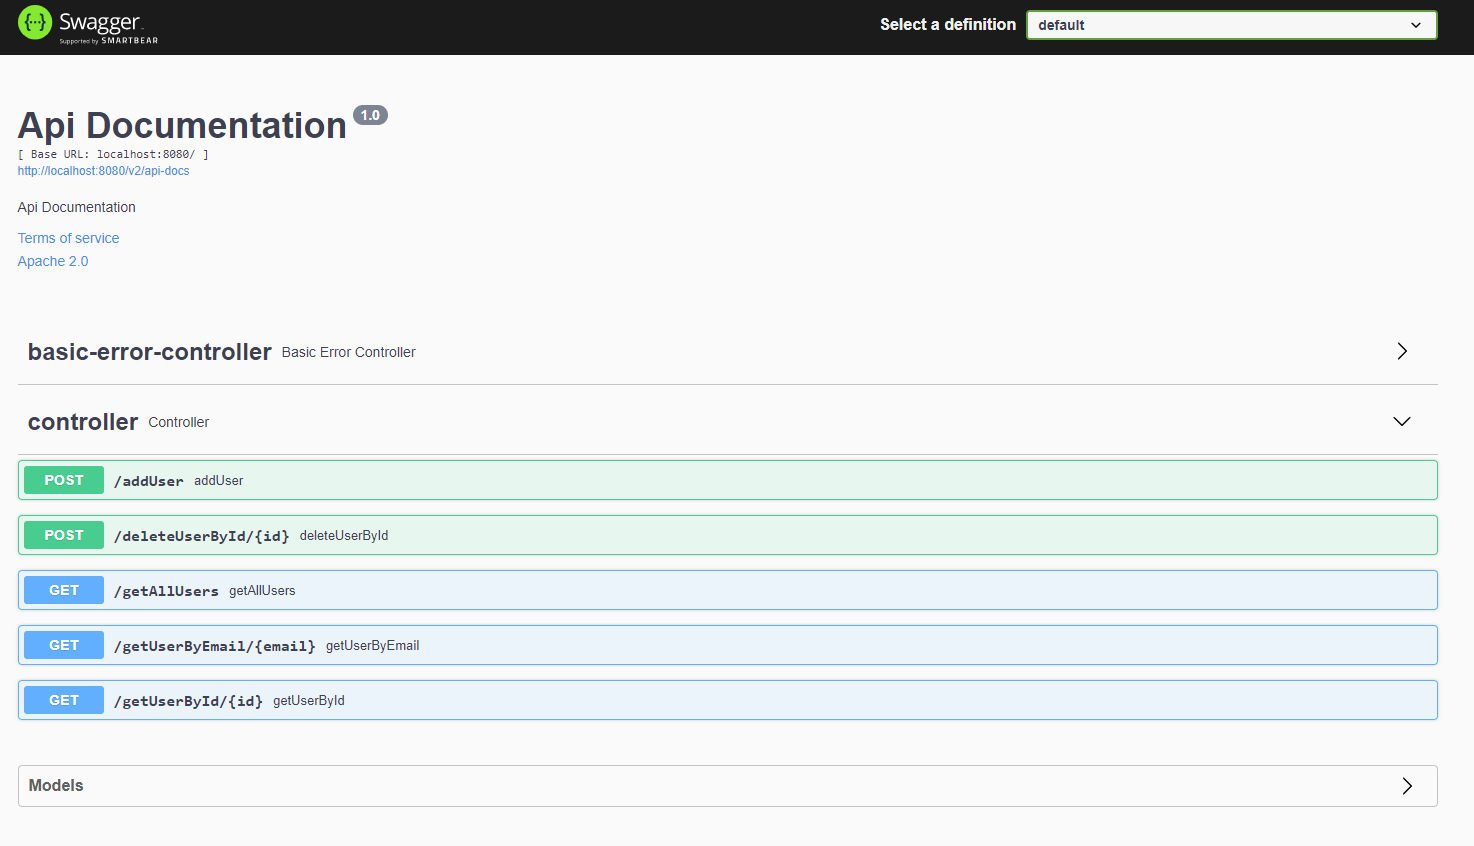
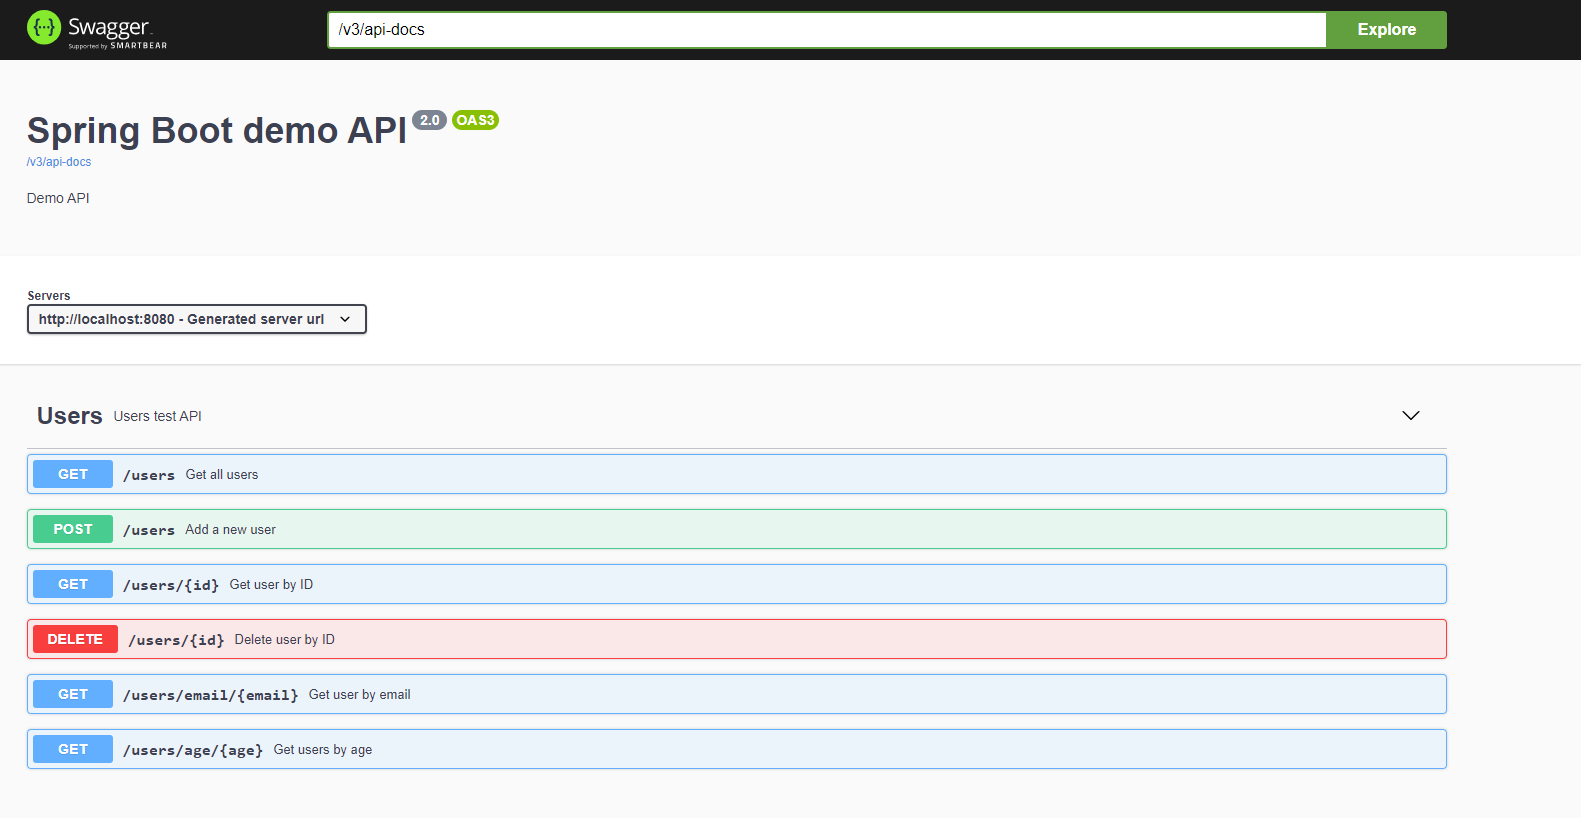
Removed local mysql database Added Hibernate in memory DB Logic changes

diff --git a/src/main/java/com/example/springtest/Controller/Controller.java b/src/main/java/com/example/springtest/Controller/Controller.java
@@ -2,64 +2,74 @@ package com.example.springtest.Controller;
 
 import com.example.springtest.Model.User;
 import com.example.springtest.Services.UserService;
+import io.swagger.v3.oas.annotations.Operation;
+import io.swagger.v3.oas.annotations.tags.Tag;
 import org.springframework.beans.factory.annotation.Autowired;
 import org.springframework.http.HttpStatus;
 import org.springframework.http.ResponseEntity;
 import org.springframework.web.bind.annotation.*;
 
+import javax.validation.Valid;
+import java.util.List;
 import java.util.Optional;
 
+@Tag(name = "Users", description = "Users test API")
 @RestController
 public class Controller {
 
     @Autowired
     UserService userService;
 
-    @GetMapping("/getUserById/{id}")
+    @GetMapping("/users/{id}")
+    @Operation(summary = "Get user by ID")
     public ResponseEntity getUserById(@PathVariable(value = "id") int id) throws Exception {
         System.out.println("Getting user by ID: " + id);
         Optional<User> user = userService.getUserById(id);
-        if(!user.isEmpty()) {
-            return new ResponseEntity<>(user, HttpStatus.OK);
-        }
-        return new ResponseEntity<>(null, HttpStatus.NOT_FOUND);
+        return new ResponseEntity<>(user, HttpStatus.OK);
     }
 
-    @GetMapping("/getUserByEmail/{email:.*}")
+    @GetMapping("/users/age/{age}")
+    @Operation(summary = "Get users by age")
+    public ResponseEntity getUsersByAge(@PathVariable(value = "age") int age) throws Exception {
+        System.out.println("Getting user by ID: " + age);
+        List<User> user = userService.getUsersByAge(age);
+        return new ResponseEntity<>(user, HttpStatus.OK);
+    }
+
+    @GetMapping("/users/email/{email:.*}")
+    @Operation(summary = "Get user by email")
     public ResponseEntity getUserByEmail(@PathVariable(value = "email") String email) throws Exception {
         System.out.println("Getting user by Email: " + email);
         Optional<User> user = userService.getUserByEmail(email);
-        if(!user.isEmpty()) {
-            return new ResponseEntity<>(user, HttpStatus.OK);
-        }
-        return new ResponseEntity<>(null, HttpStatus.NOT_FOUND);
+        return new ResponseEntity<>(user, HttpStatus.OK);
     }
 
-    @GetMapping("/getAllUsers")
+    @DeleteMapping("/users/{id}")
+    @Operation(summary = "Delete user by ID")
+    public ResponseEntity deleteUserById(@PathVariable(value = "id") int id)  throws Exception {
+        System.out.println("Deleting user with ID: " + id);
+        if(userService.deleteUserById(id)) {
+            return new ResponseEntity<>("Success", HttpStatus.OK);
+        }  else {
+            return new ResponseEntity<>("Error", HttpStatus.BAD_REQUEST);
+        }
+    }
+
+    @GetMapping("/users")
+    @Operation(summary = "Get all users")
     public ResponseEntity getAllUsers()  throws Exception {
         System.out.println("Finding all users");
         return new ResponseEntity<>(userService.getAllUsers(), HttpStatus.OK);
     }
 
-    @PostMapping("/deleteUserById/{id}")
-    public ResponseEntity deleteUserById(@PathVariable(value = "id") int id)  throws Exception {
-        System.out.println("Deleting user with ID: " + id);
-        HttpStatus response = userService.deleteUserById(id);
-        String responseBody = "";
-        if(response.equals(HttpStatus.OK)) {
-            responseBody = "Success";
-        } else responseBody = "Failure";
-        return new ResponseEntity<>(responseBody, response);
-    }
-
-    @PostMapping("/addUser")
-    public ResponseEntity addUser(@RequestBody String body) throws Exception {
-        System.out.println("Adding user: " + body);
-        HttpStatus response = userService.addUser(body);
-        String responseBody = "";
-        if(response.equals(HttpStatus.OK)) {
-            responseBody = "Success";
-        } else responseBody = "Failure";
-        return new ResponseEntity<>(responseBody, response);
+    @PostMapping("/users")
+    @Operation(summary = "Add a new user")
+    public ResponseEntity addUser(@RequestBody @Valid String request) throws Exception {
+        System.out.println("Request: " + request);
+        if(userService.addUser(request)) {
+            return new ResponseEntity<>("Success", HttpStatus.OK);
+        } else {
+            return new ResponseEntity<>("Error", HttpStatus.BAD_REQUEST);
+        }
     }
 }

diff --git a/src/main/java/com/example/springtest/Services/UserService.java b/src/main/java/com/example/springtest/Services/UserService.java
@@ -1,11 +1,9 @@
 package com.example.springtest.Services;
 
 import com.example.springtest.Database.UserRepository;
-import com.example.springtest.Model.NewUser;
 import com.example.springtest.Model.User;
 import com.fasterxml.jackson.databind.ObjectMapper;
 import org.springframework.beans.factory.annotation.Autowired;
-import org.springframework.http.HttpStatus;
 import org.springframework.stereotype.Service;
 
 import java.util.List;
@@ -14,39 +12,50 @@ import java.util.Optional;
 @Service
 public class UserService {
 
-    @Autowired
-    UserRepository userRepository;
+    private UserRepository userRepository;
 
-    public Optional<User>  getUserById(int id) {
-        return userRepository.findById(id);
+    @Autowired
+    public UserService(UserRepository userRepository) {
+        this.userRepository = userRepository;
+    }
+
+    public Optional<User> getUserById(int id) {
+        return userRepository.findById(Integer.valueOf(id));
     }
 
     public Optional<User> getUserByEmail(String email) {
         return userRepository.findByEmail(email);
     }
 
-    public List<User> getAllUsers() {
-        return userRepository.findAllUsers();
+    public List<User> getUsersByAge(Integer age) {
+        return userRepository.findByAge(age);
     }
 
-    public HttpStatus deleteUserById(int id)  {
+    public Iterable<User> getAllUsers() {
+        return userRepository.findAll();
+    }
+
+    public boolean deleteUserById(int id) {
         try {
             userRepository.deleteById(id);
-            return HttpStatus.OK;
+            return true;
         } catch (Exception e) {
-            return HttpStatus.NOT_FOUND;
+            System.out.println(e);
+            return false;
         }
     }
 
-    public HttpStatus addUser(String body) {
+    public boolean addUser(String request) {
         try {
             ObjectMapper objectMapper = new ObjectMapper();
-            NewUser newUser = objectMapper.readValue(body, NewUser.class);
-            System.out.println("Inserting user into database: " + newUser.getName());
-            userRepository.addUser(newUser.getName(), newUser.getEmail(), newUser.getPostcode(), newUser.getAge());
-            return HttpStatus.OK;
+            User user = objectMapper.readValue(request, User.class);
+            System.out.println("Inserting user into database: " + user.toString());
+            userRepository.save(new User(user.getAge(), user.getName(), user.getEmail(), user.getPostcode()));
+            return true;
         } catch (Exception e) {
-            return HttpStatus.BAD_REQUEST;
+            System.out.println(e);
+            return false;
         }
+
     }
 }

diff --git a/src/main/java/com/example/springtest/SpringTestApplication.java b/src/main/java/com/example/springtest/SpringTestApplication.java
@@ -1,15 +1,31 @@
 package com.example.springtest;
 
+import com.example.springtest.Database.UserRepository;
+import com.example.springtest.Model.User;
+import io.swagger.v3.oas.annotations.OpenAPIDefinition;
+import io.swagger.v3.oas.annotations.info.Info;
+import org.springframework.beans.factory.annotation.Autowired;
+import org.springframework.boot.CommandLineRunner;
 import org.springframework.boot.SpringApplication;
 import org.springframework.boot.autoconfigure.SpringBootApplication;
-import org.springframework.data.jpa.repository.config.EnableJpaRepositories;
 
-@EnableJpaRepositories("com.example.springtest.Database")
 @SpringBootApplication
-public class SpringTestApplication {
+@OpenAPIDefinition(info = @Info(title = "Spring Boot demo API",
+		description = "Demo API",
+		version = "2.0"))
+public class SpringTestApplication implements CommandLineRunner {
+
+	@Autowired
+	UserRepository userRepository;
 
 	public static void main(String[] args) {
 		SpringApplication.run(SpringTestApplication.class, args);
+	}	//http://localhost:8080/swagger-ui.html
+
+	@Override
+	public void run(String...args)  throws Exception {
+		userRepository.save(new User(22 , "test", "test@test.com", "le130e"));
+		userRepository.save(new User(26 , "test2", "test2@test2.com", "ng18jr3"));
+		userRepository.save(new User(18 , "test3", "tes3t@test3.com", "pe100fe"));
 	}
-	//http://localhost:8080/swagger-ui/index.html
 }

diff --git a/src/main/java/com/example/springtest/Database/UserRepository.java b/src/main/java/com/example/springtest/Database/UserRepository.java
@@ -1,27 +1,12 @@
 package com.example.springtest.Database;
 
 import com.example.springtest.Model.User;
-import org.springframework.data.jpa.repository.Modifying;
-import org.springframework.data.jpa.repository.Query;
 import org.springframework.data.repository.CrudRepository;
-import org.springframework.data.repository.query.Param;
-import org.springframework.stereotype.Repository;
 
-import javax.transaction.Transactional;
 import java.util.List;
 import java.util.Optional;
 
-@Repository
 public interface UserRepository extends CrudRepository <User, Integer>{
-
-    @Query(value = "SELECT * FROM Users", nativeQuery = true)
-    List<User> findAllUsers();
-
-    @Query(value = "SELECT * FROM Users WHERE email=:email", nativeQuery = true)
-    Optional<User> findByEmail(@Param("email") String email);
-
-    @Modifying
-    @Transactional
-    @Query(value = "INSERT INTO Users (name, email, postcode, age) VALUES (:name, :email, :postcode, :age)", nativeQuery = true)
-    void addUser(@Param("name") String name, @Param("email") String email, @Param("postcode") String postcode, @Param("age") int age);
+    Optional <User> findByEmail(String email);
+    List<User> findByAge(Integer age);
 }

diff --git a/src/main/java/com/example/springtest/Model/User.java b/src/main/java/com/example/springtest/Model/User.java
@@ -3,18 +3,35 @@ package com.example.springtest.Model;
 import lombok.Getter;
 import lombok.Setter;
 
-import javax.persistence.*;
-import java.io.Serializable;
+import javax.persistence.Column;
+import javax.persistence.Entity;
+import javax.persistence.GeneratedValue;
+import javax.persistence.Id;
+import javax.validation.constraints.Min;
 
-@Table(name = "users")
 @Getter
 @Setter
 @Entity
-public class User implements Serializable {
+public class User {
     @Id
-    private int id;
-    private int age;
+    @GeneratedValue
+    private Integer id;
+    @Column
+    private Integer age;
+    @Column
     private String name;
+    @Column
     private String email;
+    @Column
     private String postcode;
+
+    protected User() {
+    }
+
+    public User(Integer age, String name, String email, String postcode) {
+        this.age = age;
+        this.name = name;
+        this.email = email;
+        this.postcode = postcode;
+    }
 }
